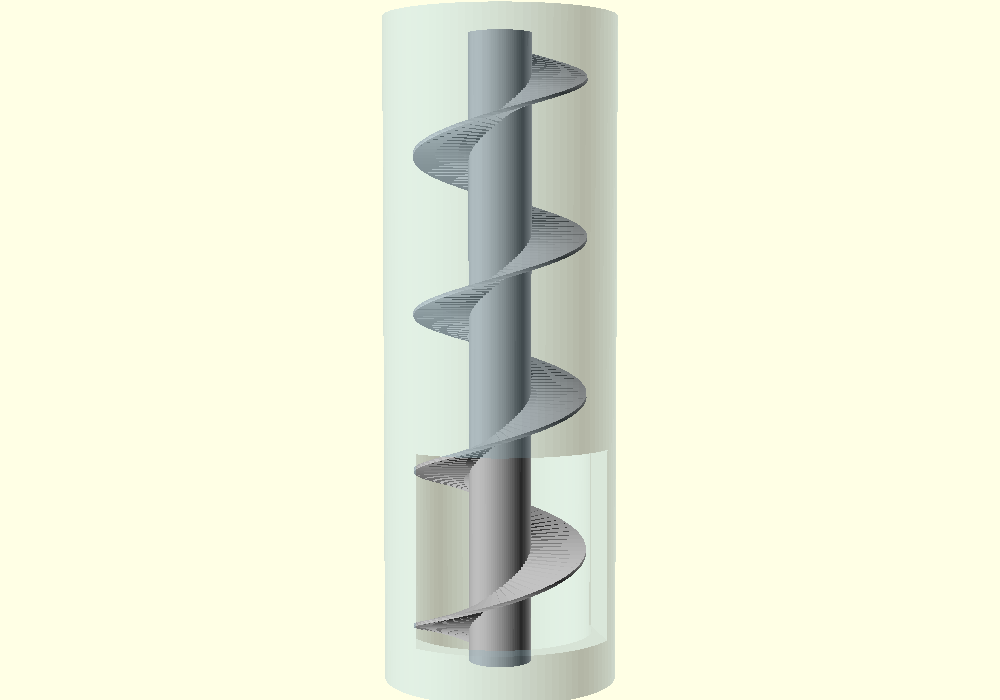
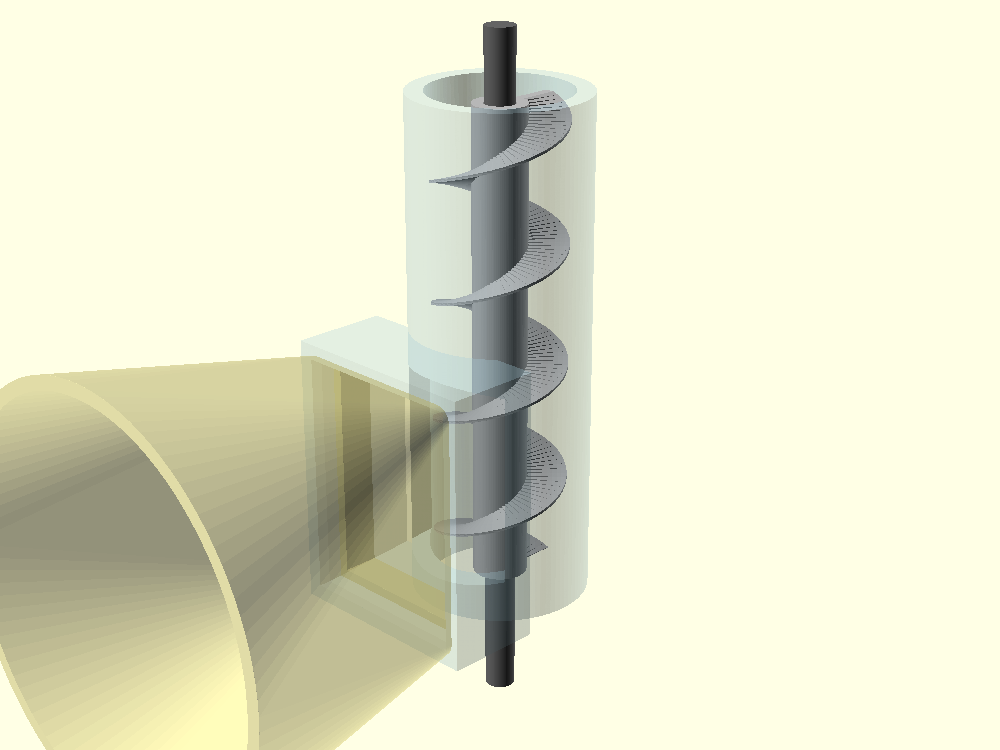
Add through-axle, D-flat coupling, inlet funnel and feed hopper
- auger: through D-bore so a Ø5 mm axle passes all the way through
- axle: new part — round stubs both ends, D-flat over the auger
  engagement length (this flat is the torque key, not a slip fit)
- barrel: conical inlet funnel narrowing to the bore + a rectangular
  socket collar
- hopper: new part — feed cone, round top to a rectangular spout that
  plugs into the barrel socket collar (removable for cleaning)
- previews regenerated + axle/hopper added; BOM updated (axle + coupler)

Verified in OpenSCAD 2021.01: all parts Simple:yes (manifold);
assembly fit checked visually.

diff --git a/hardware/cad/openscad/preview/README.md b/hardware/cad/openscad/preview/README.md
@@ -6,15 +6,25 @@ Visual reference only — **not authoritative**. The model is
 ```sh
 cd hardware/cad/openscad
 xvfb-run -a openscad -o preview/auger.png    --imgsize=1000,700 --autocenter --viewall -D 'part="auger"'    feeder_test_module.scad
-xvfb-run -a openscad -o preview/barrel.png   --imgsize=1000,700 --camera=-220,0,42,0,0,42                   -D 'part="barrel"'   feeder_test_module.scad
-xvfb-run -a openscad -o preview/assembly.png --imgsize=1000,700 --camera=-220,40,55,0,0,40                  -D 'part="assembly"' feeder_test_module.scad
+xvfb-run -a openscad -o preview/axle.png     --imgsize=1000,500 --autocenter --viewall -D 'part="axle"'     feeder_test_module.scad
+xvfb-run -a openscad -o preview/barrel.png   --imgsize=1000,700 --camera=-260,30,46,0,0,46 -D 'part="barrel"'   feeder_test_module.scad
+xvfb-run -a openscad -o preview/hopper.png   --imgsize=1000,700 --autocenter --viewall -D 'part="hopper"'   feeder_test_module.scad
+xvfb-run -a openscad -o preview/assembly.png --imgsize=1000,750 --camera=-200,-200,150,0,0,35 -D 'part="assembly"' feeder_test_module.scad
 ```
 
 (`xvfb-run` only needed on headless machines.)
 
-- `auger.png` — the screw
-- `barrel.png` — tube, viewed from the inlet side (green = bore opened through)
-- `assembly.png` — auger inside barrel, fit check
+- `auger.png`    — the screw, with the through D-bore for the axle
+- `axle.png`     — drive axle: round stubs + D-flat over the middle
+- `barrel.png`   — tube, viewed from the inlet side; rectangular socket
+  collar with a conical funnel down into the bore (green = bore opened)
+- `hopper.png`   — feed cone: round top → rectangular plug-in spout
+- `assembly.png` — axle through auger, inside barrel, hopper spout
+  seated in the collar socket
 
-Verified with OpenSCAD 2021.01: both parts render `Simple: yes` (manifold,
-printable); inlet penetrates the bore; auger clears the tube.
+Verified with OpenSCAD 2021.01: all parts render `Simple: yes` (manifold,
+printable); axle passes through the auger; hopper spout seats in the
+collar; funnel leads from the socket into the bore.
+
+Torque path: motor → axle round stub → D-flat → auger → food.
+Use a real 5 mm steel rod as the axle if possible (printed axles flex).

diff --git a/hardware/bom.md b/hardware/bom.md
@@ -26,8 +26,9 @@ matters until this works.
 | 4 | Power supply | 12 V, ≥2 A DC for the stepper. Separate 5 V/USB for the ESP32. | 1 | 🧪 to validate (current draw under load is unknown) |
 | 5 | Auger (screw) | 3D printed, parametric — see `hardware/cad/openscad/`. Print several pitch/diameter variants. | 3–5 | 🧪 to validate |
 | 6 | Auger tube / barrel | 3D printed, parametric — same model. Inner Ø ≈ auger OD + clearance. | 1–2 | 🧪 to validate |
-| 7 | Motor → auger coupling | Either printed-in D-shaft bore (in the model) or a 5 mm flexible/rigid shaft coupler. | 1 | 🧪 to validate |
-| 8 | Test hopper | Simple printed funnel or a cut plastic bottle taped on top of the inlet. Throwaway. | 1 | ✅ decided |
+| 7 | Drive axle | Ø5 mm rod through the auger, D-flat keys it (model has the flat). **Steel rod preferred** — printed axles flex/wear. | 1 | 🧪 to validate |
+| 7b | Motor coupler | 5 mm rigid/flex coupler: axle rear stub → NEMA17 5 mm shaft. | 1 | 🧪 to validate |
+| 8 | Hopper / feed cone | 3D printed, parametric — round top → rectangular spout that plugs into the barrel socket collar. | 1 | ✅ decided |
 | 9 | Dry cat food | The actual food the cat eats. Kibble size/shape changes everything — test with the real thing. | — | ✅ decided |
 | 10 | Misc | M3 screws/heat-set inserts for motor mount, jumper wires, breadboard. | — | ✅ decided |
 
